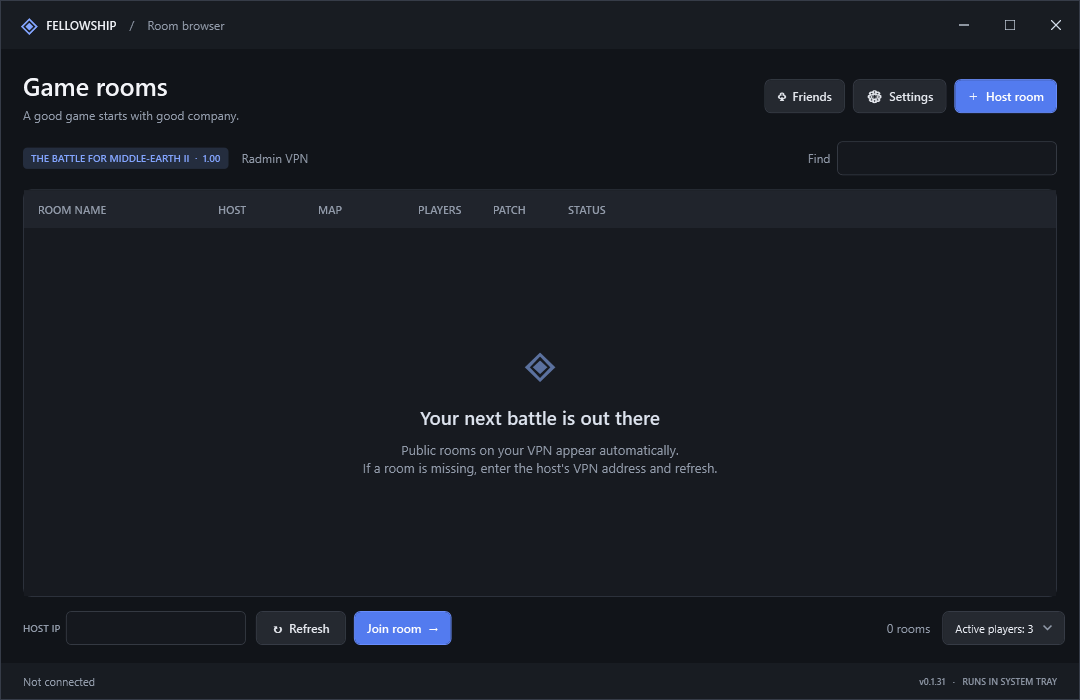
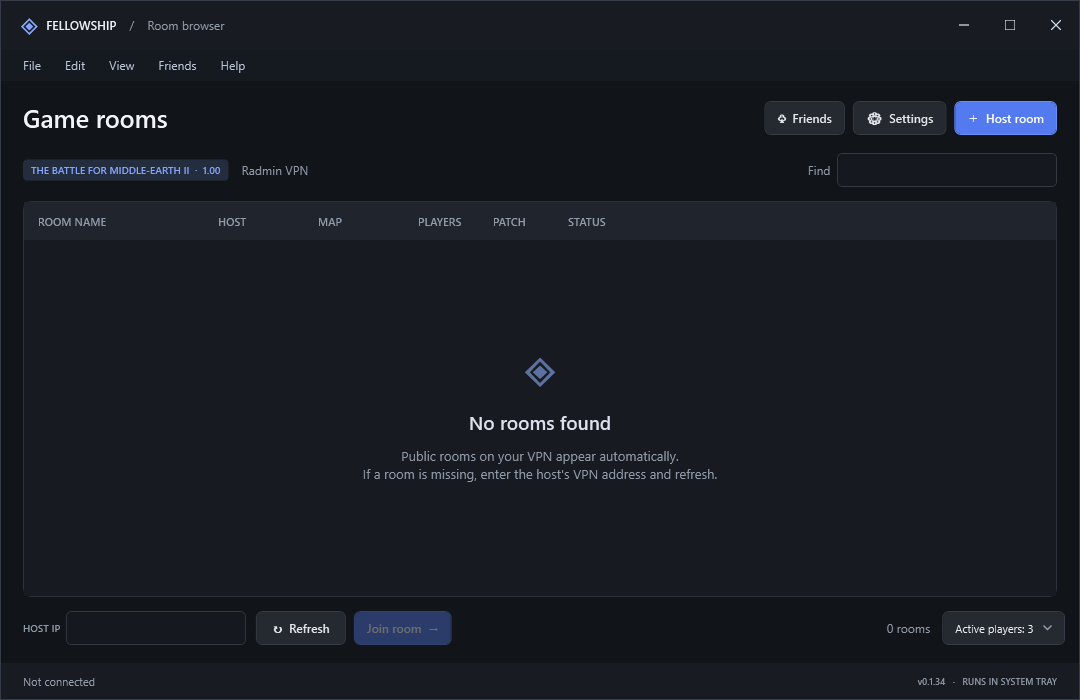
Add contextual menu bars and polished tooltips; remove filler copy

diff --git a/Fellowship/App.xaml b/Fellowship/App.xaml
@@ -29,7 +29,14 @@
  <Setter Property="Template"><Setter.Value><ControlTemplate TargetType="MenuItem"><Border x:Name="MenuFrame" Padding="{TemplateBinding Padding}" Background="Transparent" CornerRadius="5"><ContentPresenter ContentSource="Header" RecognizesAccessKey="True"/></Border><ControlTemplate.Triggers><Trigger Property="IsHighlighted" Value="True"><Setter TargetName="MenuFrame" Property="Background" Value="#2D3B53"/><Setter Property="Foreground" Value="White"/></Trigger><Trigger Property="IsEnabled" Value="False"><Setter Property="Opacity" Value="0.4"/></Trigger></ControlTemplate.Triggers></ControlTemplate></Setter.Value></Setter>
 </Style>
 <Style TargetType="Separator"><Setter Property="Template"><Setter.Value><ControlTemplate TargetType="Separator"><Border Height="1" Background="#303947" Margin="8,6"/></ControlTemplate></Setter.Value></Setter></Style>
-<Style TargetType="ToolTip"><Setter Property="Background" Value="#252D3B"/><Setter Property="Foreground" Value="#E8EDF7"/><Setter Property="BorderBrush" Value="#46536B"/><Setter Property="Padding" Value="10,7"/><Setter Property="MaxWidth" Value="360"/></Style>
+<Style TargetType="ToolTip">
+ <Setter Property="Foreground" Value="#DCE4F1"/><Setter Property="FontSize" Value="11"/><Setter Property="Padding" Value="10,7"/><Setter Property="MaxWidth" Value="300"/><Setter Property="HasDropShadow" Value="False"/>
+ <Setter Property="Template"><Setter.Value><ControlTemplate TargetType="ToolTip"><Border Background="#232C39" BorderBrush="#3B485D" BorderThickness="1" CornerRadius="7" Padding="{TemplateBinding Padding}"><ContentPresenter><ContentPresenter.Resources><Style TargetType="TextBlock"><Setter Property="TextWrapping" Value="Wrap"/></Style></ContentPresenter.Resources></ContentPresenter></Border></ControlTemplate></Setter.Value></Setter>
+</Style>
+<Style x:Key="AppMenuHeading" TargetType="MenuItem">
+ <Setter Property="Foreground" Value="#BAC5D6"/><Setter Property="FontSize" Value="12"/><Setter Property="Padding" Value="12,6"/>
+ <Setter Property="Template"><Setter.Value><ControlTemplate TargetType="MenuItem"><Grid><Border x:Name="Heading" Background="Transparent" CornerRadius="4" Padding="{TemplateBinding Padding}"><ContentPresenter ContentSource="Header" RecognizesAccessKey="True"/></Border><Popup x:Name="PART_Popup" IsOpen="{TemplateBinding IsSubmenuOpen}" Placement="Bottom" AllowsTransparency="True" Focusable="False"><Border Background="#1B222D" BorderBrush="#3A4659" BorderThickness="1" CornerRadius="7" Padding="5" MinWidth="190"><ItemsPresenter KeyboardNavigation.DirectionalNavigation="Cycle"/></Border></Popup></Grid><ControlTemplate.Triggers><Trigger Property="IsHighlighted" Value="True"><Setter TargetName="Heading" Property="Background" Value="#293448"/></Trigger><Trigger Property="IsSubmenuOpen" Value="True"><Setter TargetName="Heading" Property="Background" Value="#293448"/></Trigger></ControlTemplate.Triggers></ControlTemplate></Setter.Value></Setter>
+</Style>
 <Style TargetType="ContextMenu">
  <Setter Property="Foreground" Value="#E8EDF7"/><Setter Property="OverridesDefaultStyle" Value="True"/><Setter Property="HasDropShadow" Value="False"/>
  <Setter Property="Template"><Setter.Value><ControlTemplate TargetType="ContextMenu"><Border Background="#1B222D" BorderBrush="#3A4659" BorderThickness="1" CornerRadius="9" Padding="6" Margin="6"><Border.Effect><DropShadowEffect BlurRadius="12" ShadowDepth="3" Opacity="0.35"/></Border.Effect><StackPanel IsItemsHost="True" KeyboardNavigation.DirectionalNavigation="Cycle"/></Border></ControlTemplate></Setter.Value></Setter>

diff --git a/Fellowship/Windows.cs b/Fellowship/Windows.cs
@@ -55,6 +55,22 @@ public static class UI
     {
         var window=new Window{Owner=owner};var body=Shell(window,title,480,430);body.Children.Add(Scroll(new Border{Padding=new Thickness(24),Child=Text(text,14)}));window.ShowDialog();
     }
+    public static MenuItem MenuAction(string title,Action action,Func<bool>? enabled=null)
+    {
+        var item=new MenuItem{Header=title};item.Click+=(_,_)=>{try{action();}catch(Exception error){Error(error.Message);}};
+        if(enabled!=null)item.Command=new ValidAction(enabled);
+        return item;
+    }
+    public static MenuItem MenuGroup(string title,params MenuItem[] items)
+    {var group=new MenuItem{Header=title,Style=(Style)Application.Current.FindResource("AppMenuHeading")};foreach(var item in items)group.Items.Add(item);return group;}
+    public static void Menus(Window window,params MenuItem[] groups)
+    {
+        var root=(DockPanel)((Border)window.Content).Child;
+        var menu=new Menu{Background=Brush("#151A21"),Padding=new(10,2,10,2)};
+        foreach(var group in groups)menu.Items.Add(group);
+        DockPanel.SetDock(menu,Dock.Top);root.Children.Insert(1,menu);
+    }
+    public static void OpenGuide()=>Process.Start(new ProcessStartInfo("https://github.com/Joshua131313/fellowship-bfme2#readme"){UseShellExecute=true});
     public static void Error(string text) => MessageBox.Show(text, "Fellowship", MessageBoxButton.OK, MessageBoxImage.Information);
     public static void Reveal(Window window)
     {
@@ -125,7 +141,7 @@ public sealed class BrowserWindow : Window
     readonly TextBox address = new() { Width = 180, Height=34, Padding=new(10,5,10,5), MaxLength = 15, ToolTip = "Host's Radmin IPv4 address" };
     readonly TextBox search = new() { Width = 220, Height=34, Padding=new(10,5,10,5), ToolTip = "Filter rooms by name, host or map" };
     readonly Border empty;
-    readonly TextBlock emptyTitle=UI.Text("Your next battle is out there",19,"#DCE2ED",true);
+    readonly TextBlock emptyTitle=UI.Text("No rooms found",19,"#DCE2ED",true);
     readonly TextBlock emptyHint=UI.Text("Public rooms on your VPN appear automatically.\nIf a room is missing, enter the host's VPN address and refresh.",13,UI.Muted);
     readonly List<RoomEntry> discovered = [];
     RoomWindow? roomWindow;
@@ -147,7 +163,7 @@ public sealed class BrowserWindow : Window
         var body = UI.Shell(this,"Room browser",1080,700); MinWidth = 900; MinHeight = 600;
         UI.Rows(body,UI.Auto,UI.Auto,UI.Star,UI.Auto,UI.Auto);
         var toolbar = new Grid { Margin = new(22,20,14,18) }; toolbar.ColumnDefinitions.Add(new()); toolbar.ColumnDefinitions.Add(new() { Width = UI.Auto });
-        var headings = UI.Stack(UI.Text("Game rooms",25,"#F3F4F8",true), UI.Text("A good game starts with good company.",12,UI.Muted)); headings.Children[1].SetValue(MarginProperty,new Thickness(0,5,0,0)); toolbar.Children.Add(headings);
+        toolbar.Children.Add(UI.Text("Game rooms",25,"#F3F4F8",true));
         var actions = UI.Row(UI.Button("♧  Friends",OpenFriends),UI.Button("⚙  Settings",OpenSettings),UI.Button("＋  Host room",CreateRoom,true)); foreach(var button in actions.Children.OfType<Button>()){button.Height=34;button.Padding=new(12,5,12,5);} Grid.SetColumn(actions,1); toolbar.Children.Add(actions); UI.At(body,toolbar,0);
         var filters = new Grid { Margin = new(22,0,22,14) }; filters.ColumnDefinitions.Add(new()); filters.ColumnDefinitions.Add(new() { Width = UI.Auto });
         filters.Children.Add(UI.Row(UI.Badge("THE BATTLE FOR MIDDLE-EARTH II  ·  1.00"), UI.Text("    Radmin VPN",12,UI.Muted)));
@@ -166,7 +182,7 @@ public sealed class BrowserWindow : Window
         footer.Children.Add(direct);
         count.Margin = new(10,0,0,0); var footerRight=UI.Row(count,playersButton);Grid.SetColumn(footerRight,1);footer.Children.Add(footerRight);UI.At(body,footer,3);
         var bottom = new Grid { Background = UI.Brush("#181C22"), Height = 36 }; bottom.ColumnDefinitions.Add(new()); bottom.ColumnDefinitions.Add(new() { Width = UI.Auto }); status.Margin = new(22,0,0,0); bottom.Children.Add(status);
-        var hint = UI.Text("v0.1.33   ·   RUNS IN SYSTEM TRAY",9,UI.Muted,true); hint.Margin = new(0,0,22,0); Grid.SetColumn(hint,1); bottom.Children.Add(hint); UI.At(body,bottom,4);
+        var hint = UI.Text("v0.1.34   ·   RUNS IN SYSTEM TRAY",9,UI.Muted,true); hint.Margin = new(0,0,22,0); Grid.SetColumn(hint,1); bottom.Children.Add(hint); UI.At(body,bottom,4);
         var playerScroll=UI.Scroll(activePlayers);playerScroll.MaxHeight=280;
         var popupBody=UI.Stack(UI.Text("ACTIVE PLAYERS",10,UI.Muted,true),playerSearch,playerScroll);
         ((FrameworkElement)popupBody.Children[0]).Margin=new(0,0,0,10);
@@ -175,6 +191,12 @@ public sealed class BrowserWindow : Window
         playersPopup.Child=popupCard;playersPopup.PlacementTarget=playersButton;
         playersButton.Click+=(_,_)=>{playersPopup.IsOpen=!playersPopup.IsOpen;if(playersPopup.IsOpen){playerSearch.Clear();RenderActivePlayers();playerSearch.Focus();}};
         playerSearch.TextChanged+=(_,_)=>RenderActivePlayers();
+        UI.Menus(this,
+            UI.MenuGroup("_File",UI.MenuAction("Host room",CreateRoom),UI.MenuAction("Hide to tray",Hide),UI.MenuAction("Quit Fellowship",()=>((App)Application.Current).Quit())),
+            UI.MenuGroup("_Edit",UI.MenuAction("Settings",OpenSettings),UI.MenuAction("Clear room filter",()=>search.Clear(),()=>search.Text.Length>0)),
+            UI.MenuGroup("_View",UI.MenuAction("Refresh rooms",async()=>{try{await Refresh();}catch(Exception error){UI.Error(error.Message);}}),UI.MenuAction("Active players",()=>{playersPopup.IsOpen=true;playerSearch.Clear();RenderActivePlayers();playerSearch.Focus();})),
+            UI.MenuGroup("F_riends",UI.MenuAction("Friends list",OpenFriends)),
+            UI.MenuGroup("_Help",UI.MenuAction("Getting started",UI.OpenGuide),UI.MenuAction("About Fellowship",()=>UI.Info(this,"About Fellowship","Fellowship "+System.Reflection.Assembly.GetExecutingAssembly().GetName().Version?.ToString(3)+"\nBFME2 1.00 · Radmin VPN"))));
         playerSearch.PreviewKeyDown+=(_,e)=>{if(e.Key==Key.Escape){playersPopup.IsOpen=false;playersButton.Focus();e.Handled=true;}};
         Closed+=(_,_)=>playersPopup.IsOpen=false;
         var roomMenu=new ContextMenu();
@@ -206,7 +228,7 @@ public sealed class BrowserWindow : Window
         var list = discovered.Where(r => r.Address != Peer.Address).ToList();
         if(Peer.Current is {} current){var host=Peer.IsHost?Peer.Address:current.HostAddress;list.RemoveAll(r=>r.Room.Id==current.Id||r.Address==host);list.Insert(0,new(host,current));}
         string filter = search.Text.Trim();
-        emptyTitle.Text=filter.Length>0?"No matching rooms":"Your next battle is out there";
+        emptyTitle.Text=filter.Length>0?"No matching rooms":"No rooms found";
         emptyHint.Text=filter.Length>0?"Try another room name, host or map.":"Public rooms on your VPN appear automatically.\nIf a room is missing, enter the host's VPN address and refresh.";
         list = list.Where(r => $"{r.Title} {r.Host} {r.Map}".Contains(filter,StringComparison.OrdinalIgnoreCase)).ToList();
         var selected=(rooms.SelectedItem as RoomEntry)?.Room.Id;
@@ -233,7 +255,7 @@ public sealed class BrowserWindow : Window
     {
         var w = new Window { Owner = this }; var body = UI.Shell(w,"Settings",560,630); w.WindowStartupLocation = WindowStartupLocation.CenterOwner;
         var p = new StackPanel { Margin = new(24,20,24,24) }; body.Children.Add(UI.Scroll(p));
-        p.Children.Add(UI.Text("Ready when you are.",23,"#F1F3F8",true)); p.Children.Add(UI.Text("Set up your player profile and local connection.",12,UI.Muted));
+        p.Children.Add(UI.Text("Settings",23,"#F1F3F8",true));
         var name = UI.Field(p,"DISPLAY NAME",Settings.Name,40);
         var game = UI.Field(p,"BFME2 EXECUTABLE",Settings.GamePath);
         var installed = @"C:\Program Files (x86)\Electronic Arts\The Battle for Middle-earth (tm) II\lotrbfme2.exe";
@@ -388,6 +410,7 @@ public sealed class RoomWindow : Window
     public RoomWindow(BrowserWindow app)
     {
         this.app=app;var body=UI.Shell(this,"Battle room",1020,760);MinWidth=900;MinHeight=660;
+        UI.Menus(this,UI.MenuGroup("_Room",UI.MenuAction("Launch mine",LaunchLocal,()=>!launching&&app.Peer.Current!=null&&File.Exists(app.Settings.GamePath)),UI.MenuAction("Leave room",async()=>{try{await app.CloseRoom();}catch(Exception error){UI.Error(error.Message);}})),UI.MenuGroup("_View",UI.MenuAction("Room browser",()=>UI.Reveal(app)),UI.MenuAction("Friends",app.OpenFriends)),UI.MenuGroup("_Help",UI.MenuAction("Game setup guide",UI.OpenGuide)));
         UI.Rows(body,UI.Auto,UI.Star,UI.Auto);
         var top=new Grid{Margin=new(22,18,22,18)};top.ColumnDefinitions.Add(new());top.ColumnDefinitions.Add(new(){Width=UI.Auto});
         var titles=UI.Stack(title,phase);phase.Margin=new(0,6,0,0);top.Children.Add(titles);
@@ -444,7 +467,7 @@ public sealed class RoomWindow : Window
         launch=UI.AsyncButton("▶  Launch all",async()=>{GameLauncher.Validate(app.Settings.GamePath);if(HostPreset.Matches(app.Peer.Current))HostPreset.ValidateBinary(app.Settings.GamePath);await app.Peer.Launch();},true,()=>!launching&&app.Peer.Current?.Players.All(p=>p.Ready)==true);
         UI.Require(launch,()=>app.Peer.IsHost&&app.Peer.Current!=null&&!launching&&File.Exists(app.Settings.GamePath)&&app.Peer.Current.Players.All(p=>p.Ready),()=>launching?"Wait for the current launch to finish.":!File.Exists(app.Settings.GamePath)?"Choose your BFME2 executable in Settings.":"The host can launch once every player is ready.");
         var actions=UI.Row(UI.AsyncButton("Leave",app.CloseRoom),UI.Require(UI.Button("Launch mine",LaunchLocal),()=>!launching&&app.Peer.Current!=null&&File.Exists(app.Settings.GamePath),()=>launching?"Wait for the current launch to finish.":app.Peer.Current==null?"Join a room before launching.":"Choose your BFME2 executable in Settings."),launch);actions.Margin=new(0,12,14,12);Grid.SetColumn(actions,1);bottom.Children.Add(actions);UI.At(body,bottom,2);
-        Append("SYSTEM","Welcome to the room. Match patches with your friends, agree on the settings, then ready up.");
+
         bool leaveQueued=false;
         Closing+=(_,e)=>
         {
@@ -676,6 +699,7 @@ public sealed class FriendsWindow : Window
     public FriendsWindow(BrowserWindow app)
     {
         this.app=app;var body=UI.Shell(this,"Friends",390,620);MinWidth=360;
+        UI.Menus(this,UI.MenuGroup("_Friends",UI.MenuAction("Add friend",AddFriend),UI.MenuAction("Send message",Message,()=>list.SelectedItem is ListBoxItem{Tag:Friend}),UI.MenuAction("Refresh presence",async()=>{try{await RefreshPresence();}catch(Exception error){UI.Error(error.Message);}})),UI.MenuGroup("_View",UI.MenuAction("Room browser",()=>UI.Reveal(app)),UI.MenuAction("Close window",Close)));
         UI.Rows(body,UI.Auto,UI.Auto,UI.Star,UI.Auto,UI.Auto);
         var me=UI.Row(UI.Avatar(app.Settings.Name,40),UI.Stack(UI.Text(app.Settings.Name,16,"#F1F3F8",true),UI.Text("●  Available on your VPN",11,UI.Green)));me.Margin=new(20,20,20,22);UI.At(body,me,0);
         var bar=new Grid{Margin=new(20,0,12,10)};bar.ColumnDefinitions.Add(new());bar.ColumnDefinitions.Add(new(){Width=UI.Auto});bar.Children.Add(summary);
@@ -704,7 +728,7 @@ public sealed class FriendsWindow : Window
             list.Items.Add(new ListBoxItem{Content=UI.Row(UI.Avatar(f.Name),labels),Tag=f});
         }
         if(selected!=null)list.SelectedItem=list.Items.OfType<ListBoxItem>().FirstOrDefault(i=>i.Tag is Friend f&&f.Address==selected.Address);
-        if(app.Settings.Friends.Count==0)list.Items.Add(new ListBoxItem{IsEnabled=false,Content=UI.Text("Your fellowship starts here.\nAdd a friend's Radmin VPN address\nto find their rooms and chat.",13,UI.Muted),Padding=new(12,30,12,12)});
+        if(app.Settings.Friends.Count==0)list.Items.Add(new ListBoxItem{IsEnabled=false,Content=UI.Text("No friends added.",13,UI.Muted),Padding=new(12,30,12,12)});
     }
     async Task RefreshPresence()
     {
@@ -722,7 +746,7 @@ public sealed class FriendsWindow : Window
     void AddFriend()
     {
         var w=new Window{Owner=this};var body=UI.Shell(w,"Add friend",430,360);w.WindowStartupLocation=WindowStartupLocation.CenterOwner;
-        var p=new StackPanel{Margin=new(24)};body.Children.Add(p);p.Children.Add(UI.Text("Bring your friends along.",20,"#F1F3F8",true));
+        var p=new StackPanel{Margin=new(24)};body.Children.Add(p);p.Children.Add(UI.Text("Add friend",20,"#F1F3F8",true));
         var name=UI.Field(p,"NAME","",40);var address=UI.Field(p,"RADMIN IPv4 ADDRESS","",15);
         var add=UI.Button("Add friend",()=>
         {

diff --git a/ui-smoke/Program.cs b/ui-smoke/Program.cs
@@ -120,12 +120,12 @@ class Program
   var preview=MapPreview.Load(GameInstallation.Find(),GameMap.Rhun.Path);
   if(File.Exists(GameInstallation.Find())&&(preview==null||preview.PixelWidth!=320))throw new Exception("Installed map preview failed");
   try{MapPreview.Decode(new byte[18]);throw new Exception("Invalid preview accepted");}catch(InvalidDataException){}
-  string ReleaseJson(string tag,string url,string digest)=>System.Text.Json.JsonSerializer.Serialize(new{tag_name=tag,draft=false,prerelease=false,assets=new[]{new{name="Fellowship-0.1.34-win-x64.zip",browser_download_url=url,digest}}});
-  var goodUrl="https://github.com/Joshua131313/fellowship-bfme2/releases/download/v0.1.34/Fellowship-0.1.34-win-x64.zip";
-  if(AppUpdates.Parse(ReleaseJson("v0.1.34",goodUrl,"sha256:"+new string('a',64)))==null)throw new Exception("New update not detected");
+  string ReleaseJson(string tag,string url,string digest)=>System.Text.Json.JsonSerializer.Serialize(new{tag_name=tag,draft=false,prerelease=false,assets=new[]{new{name="Fellowship-0.1.35-win-x64.zip",browser_download_url=url,digest}}});
+  var goodUrl="https://github.com/Joshua131313/fellowship-bfme2/releases/download/v0.1.35/Fellowship-0.1.35-win-x64.zip";
+  if(AppUpdates.Parse(ReleaseJson("v0.1.35",goodUrl,"sha256:"+new string('a',64)))==null)throw new Exception("New update not detected");
   if(AppUpdates.Parse(ReleaseJson("v0.1.6",goodUrl,"sha256:"+new string('a',64)))!=null)throw new Exception("Downgrade offered");
-  try{AppUpdates.Parse(ReleaseJson("v0.1.34","https://example.com/update.zip","sha256:"+new string('a',64)));throw new Exception("Untrusted update accepted");}catch(InvalidDataException){}
-  var msiJson=ReleaseJson("v0.1.34",goodUrl,"sha256:"+new string('a',64)).Replace(".zip",".msi");
+  try{AppUpdates.Parse(ReleaseJson("v0.1.35","https://example.com/update.zip","sha256:"+new string('a',64)));throw new Exception("Untrusted update accepted");}catch(InvalidDataException){}
+  var msiJson=ReleaseJson("v0.1.35",goodUrl,"sha256:"+new string('a',64)).Replace(".zip",".msi");
   if(AppUpdates.Parse(msiJson) is not {Installer:true})throw new Exception("Installer update not detected");
   Console.WriteLine("PASS installer update selection");
   if(preview!=null){Directory.CreateDirectory("dist");var encoder=new PngBitmapEncoder();encoder.Frames.Add(BitmapFrame.Create(preview));using var output=File.Create("dist/preview-overhead.png");encoder.Save(output);}
@@ -151,6 +151,9 @@ class Program
   if(!System.Windows.Controls.ToolTipService.GetShowOnDisabled(guarded)||((Func<string>)guarded.Resources["DisabledReason"])()!="Enter a value")throw new Exception("Disabled tooltip reason unavailable");
   Console.WriteLine("PASS disabled controls expose explanatory tooltip reasons");
   Console.WriteLine("PASS action guards and full IPv4 validation");
+  var menuHeading=UI.MenuGroup("File",UI.MenuAction("Example",()=>{}));menuHeading.ApplyTemplate();
+  if(menuHeading.Template.FindName("PART_Popup",menuHeading) is not System.Windows.Controls.Primitives.Popup)throw new Exception("Menu dropdown missing");
+  Console.WriteLine("PASS application menu dropdown template");
   var demoSettings=Settings.InMemory();demoSettings.Name="Frodo";
   var browser=new BrowserWindow(demoSettings);
   browser.Presence.Success("26.1.1.2","Aragorn",null,DateTimeOffset.UtcNow);
